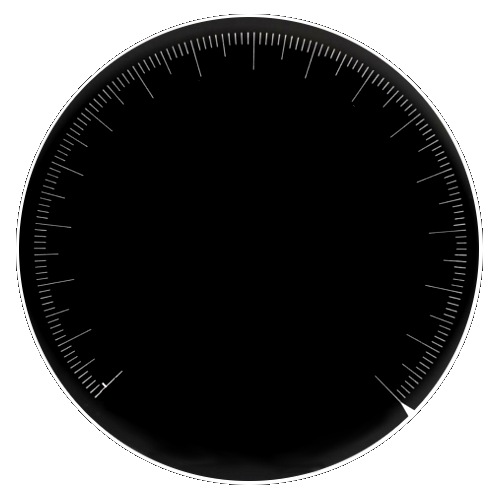
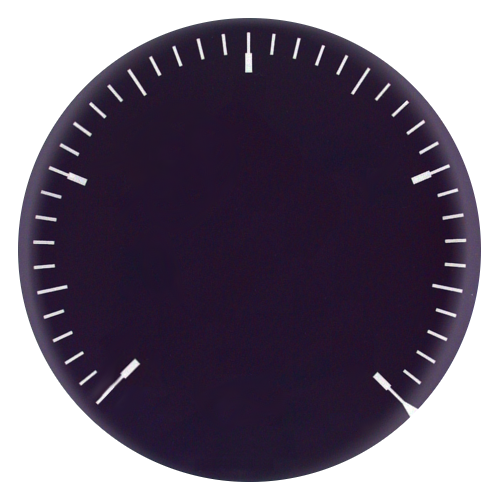
Added matching styles to digital gauge class. Fixed date alignment. Changed font color for certain styles

diff --git a/src/GaugeClass.py b/src/GaugeClass.py
@@ -27,9 +27,11 @@ class Gauge(Widget):
         self.MinValue= 0
         self.MaxValue= 80
         self.Units= 'DEF'
+        
 
         #BACKGROUND       
-        self.gauge = Image(source='Images/Guages/GuageHead5.png', size=(400,400))
+        self.gauge = Image(source='Images/Guages/GuageHead1.png', size=(400,400))
+        self.style = 1
         
         #GAUGE DIAL
         self.dialscat = Scatter(do_translation=False)
@@ -50,6 +52,8 @@ class Gauge(Widget):
         self.L8 =Label(text='70', font_size='20sp', pos=(280,125), color=(0, 0, 0, 1))
         self.L9 =Label(text='80', font_size='20sp', pos=(240,65), color=(0, 0, 0, 1))
         
+        self.UnitScaleLabels = [self.L1,self.L2,self.L3,self.L4,self.L5,self.L6,self.L7,self.L8,self.L9]
+        
         #SETTINGS MENU BUTTON
         self.settings= Button(text='Modify', pos=(155,40), size=(80,30), color=(51,102,255,1))
         self.settings.bind(on_release=self.menu)
@@ -68,6 +72,10 @@ class Gauge(Widget):
         self.add_widget(self.MTitle)
         self.add_widget(self.MUnits)
         
+        #ADD UNIT SCALE LABELS
+        for l in self.UnitScaleLabels:
+            self.add_widget(l)
+        """
         self.add_widget(self.L1)
         self.add_widget(self.L2)
         self.add_widget(self.L3)
@@ -77,6 +85,7 @@ class Gauge(Widget):
         self.add_widget(self.L7)
         self.add_widget(self.L8)
         self.add_widget(self.L9)
+        """
         
     def setParents(self, P, S):
         self.Parent=P
@@ -91,7 +100,7 @@ class Gauge(Widget):
         """
         if(self.settings_open==False):
             menu = BoxLayout(
-                    size_hint=(None, None),
+                    size_hint=(None, .5),
                     orientation='vertical')
             
             B1= Button(text='Style 1')
@@ -100,10 +109,23 @@ class Gauge(Widget):
             B2.bind(on_release=self.style_2)
             B3= Button(text='Style 3')
             B3.bind(on_release=self.style_3)
+            B4= Button(text='Style 4')
+            B4.bind(on_release=self.style_4)
+            B5= Button(text='Style 5')
+            B5.bind(on_release=self.style_5)
+            B6= Button(text='Style 6')
+            B6.bind(on_release=self.style_6)
+            B7= Button(text='Style 7')
+            B7.bind(on_release=self.style_7)
             
             menu.add_widget(B1)
             menu.add_widget(B2)
             menu.add_widget(B3)
+            menu.add_widget(B4)
+            menu.add_widget(B5)
+            menu.add_widget(B6)
+            menu.add_widget(B7)
+            
             
             close = Button(text='close')
             close.bind(on_release=partial(self.close_menu, menu))
@@ -123,48 +145,87 @@ class Gauge(Widget):
         self.gauge.source = imagesrc
         
     def style_1(self, *largs):
-        self.setBackground('Images/Guages/GuageHead5.png')
-        self.L1.color=(0,0,0,1)
-        self.L2.color=(0,0,0,1)
-        self.L3.color=(0,0,0,1)
-        self.L4.color=(0,0,0,1)
-        self.L5.color=(0,0,0,1)
-        self.L6.color=(0,0,0,1)
-        self.L7.color=(0,0,0,1)
-        self.L8.color=(0,0,0,1)
-        self.L9.color=(0,0,0,1)
+        #Theme Background Image
+        self.setBackground('Images/Guages/GuageHead1.png')
         
+        #Unit Measure Colors
+        for l in self.UnitScaleLabels:
+            l.color=(0,0,0,1)
+        
+        #String Identifiers
         self.MTitle.color=(0,0,0,1)
         self.MUnits.color=(0,0,0,1)
     
     def style_2(self, *largs):
-        self.setBackground('Images/Guages/GuageHead6.png')
-        self.L1.color=(255,255,255,1)
-        self.L2.color=(255,255,255,1)
-        self.L3.color=(255,255,255,1)
-        self.L4.color=(255,255,255,1)
-        self.L5.color=(255,255,255,1)
-        self.L6.color=(255,255,255,1)
-        self.L7.color=(255,255,255,1)
-        self.L8.color=(255,255,255,1)
-        self.L9.color=(255,255,255,1)
+        #Theme Background Image
+        self.setBackground('Images/Guages/GuageHead2.png')
         
+        #Unit Measure Colors
+        for l in self.UnitScaleLabels:
+            l.color=(255,255,255,1)
+        
+        #String Identifiers
         self.MTitle.color=(255,255,255,1)
         self.MUnits.color=(255,255,255,1)
         
         
     def style_3(self, *largs):
-        self.setBackground('Images/Guages/GuageHead2.png')
-        self.L1.color=(255,255,255,1)
-        self.L2.color=(255,255,255,1)
-        self.L3.color=(255,255,255,1)
-        self.L4.color=(255,255,255,1)
-        self.L5.color=(255,255,255,1)
-        self.L6.color=(255,255,255,1)
-        self.L7.color=(255,255,255,1)
-        self.L8.color=(255,255,255,1)
-        self.L9.color=(255,255,255,1)
+        #Theme Background Image
+        self.setBackground('Images/Guages/GuageHead3.png')
         
+        #Unit Measure Colors
+        for l in self.UnitScaleLabels:
+            l.color=(255,255,255,1)
+        
+        #String Identifiers
+        self.MTitle.color=(255,255,255,1)
+        self.MUnits.color=(255,255,255,1)
+        
+    def style_4(self, *largs):
+        #Theme Background Image
+        self.setBackground('Images/Guages/GuageHead4.png')
+        
+        #Unit Measure Colors
+        for l in self.UnitScaleLabels:
+            l.color=(0,0,0,1)
+        
+        #String Identifiers
+        self.MTitle.color=(0,0,0,1)
+        self.MUnits.color=(0,0,0,1)
+    
+    def style_5(self, *largs):
+        #Theme Background Image
+        self.setBackground('Images/Guages/GuageHead5.png')
+        
+        #Unit Measure Colors
+        for l in self.UnitScaleLabels:
+            l.color=(255,255,255,1)
+        
+        #String Identifiers
+        self.MTitle.color=(255,255,255,1)
+        self.MUnits.color=(255,255,255,1)
+        
+    def style_6(self, *largs):
+        #Theme Background Image
+        self.setBackground('Images/Guages/GuageHead6.png')
+        
+        #Unit Measure Colors
+        for l in self.UnitScaleLabels:
+            l.color=(0,0,0,1)
+        
+        #String Identifiers
+        self.MTitle.color=(0,0,0,1)
+        self.MUnits.color=(0,0,0,1)
+    
+    def style_7(self, *largs):
+        #Theme Background Image
+        self.setBackground('Images/Guages/GuageHead7.png')
+        
+        #Unit Measure Colors
+        for l in self.UnitScaleLabels:
+            l.color=(255,255,255,1)
+        
+        #String Identifiers
         self.MTitle.color=(255,255,255,1)
         self.MUnits.color=(255,255,255,1)
         
@@ -180,16 +241,11 @@ class Gauge(Widget):
         self.MaxValue=Max
         diff = Max-Min
         inc = diff/8
-        self.L1.text=str(Min)
-        self.L2.text=str(Min+(1*inc))
-        self.L3.text=str(Min+(2*inc))
-        self.L4.text=str(Min+(3*inc))
-        self.L5.text=str(Min+(4*inc))
-        self.L6.text=str(Min+(5*inc))
-        self.L7.text=str(Min+(6*inc))
-        self.L8.text=str(Min+(7*inc))
-        self.L9.text=str(Min+(8*inc))
         
+        #Set unit scale text values
+        for n in range(9):
+            self.UnitScaleLabels[n].text=str(Min+(n*inc))
+
 
     def setMPH(self, mph):
         angle = 360-(1.3655*mph)

diff --git a/src/GaugeClassDigital.py b/src/GaugeClassDigital.py
@@ -86,7 +86,7 @@ class GaugeDigital(Widget):
         """
         if(self.settings_open==False):
             menu = BoxLayout(
-                    size_hint=(None, None),
+                    size_hint=(None, .5),
                     orientation='vertical')
             
             B1= Button(text='Style 1')
@@ -95,10 +95,23 @@ class GaugeDigital(Widget):
             B2.bind(on_release=self.style_2)
             B3= Button(text='Style 3')
             B3.bind(on_release=self.style_3)
+            B4= Button(text='Style 4')
+            B4.bind(on_release=self.style_4)
+            B5= Button(text='Style 5')
+            B5.bind(on_release=self.style_5)
+            B6= Button(text='Style 6')
+            B6.bind(on_release=self.style_6)
+            B7= Button(text='Style 7')
+            B7.bind(on_release=self.style_7)
             
             menu.add_widget(B1)
             menu.add_widget(B2)
             menu.add_widget(B3)
+            menu.add_widget(B4)
+            menu.add_widget(B5)
+            menu.add_widget(B6)
+            menu.add_widget(B7)
+            
             
             close = Button(text='close')
             close.bind(on_release=partial(self.close_menu, menu))
@@ -131,6 +144,34 @@ class GaugeDigital(Widget):
         
     def style_3(self, *largs):
         self.setBackground('Images/Guages/GuageSquare3.png')
+        
+        self.MTitle.color=(255,255,255,1)
+        self.MUnits.color=(255,255,255,1)
+        self.VALUE.color=(255,255,255,1)
+        
+    def style_4(self, *largs):
+        self.setBackground('Images/Guages/GuageSquare4.png')
+        
+        self.MTitle.color=(0,0,0,1)
+        self.MUnits.color=(0,0,0,1)
+        self.VALUE.color=(0,0,0,1)
+        
+    def style_5(self, *largs):
+        self.setBackground('Images/Guages/GuageSquare5.png')
+        
+        self.MTitle.color=(255,255,255,1)
+        self.MUnits.color=(255,255,255,1)
+        self.VALUE.color=(255,255,255,1)
+        
+    def style_6(self, *largs):
+        self.setBackground('Images/Guages/GuageSquare6.png')
+        
+        self.MTitle.color=(0,0,0,1)
+        self.MUnits.color=(0,0,0,1)
+        self.VALUE.color=(0,0,0,1)
+    
+    def style_7(self, *largs):
+        self.setBackground('Images/Guages/GuageSquare7.png')
         
         self.MTitle.color=(255,255,255,1)
         self.MUnits.color=(255,255,255,1)

diff --git a/src/DigiDash.py b/src/DigiDash.py
@@ -8,7 +8,7 @@ from kivy.uix.scatterlayout import ScatterLayout
 from kivy.animation import Animation
 from kivy.uix.floatlayout import FloatLayout
 from kivy.clock import Clock
-from GaugeClass import Gauge  Gauge.setParents(g1,self,g1s)
+from GaugeClass import Gauge
 from GaugeClassDigital import GaugeDigital
 from Settings import Settings
 from AddGauge import AddGauge
@@ -29,6 +29,7 @@ class DigiDashApp(App):
         
         ActiveGauges=[]
         
+        #Initialize all Gauges from INI config file
         for g in GaugeList:
             gtype = Config.get(g,'type')
             gstyle = int(Config.get(g,'style'))
@@ -69,36 +70,6 @@ class DigiDashApp(App):
         #Create initial background, replace eventually with settings load from ini file
         self.bg = Image(source='Images/Metal2.jpg', pos=(0,0), size=(1500,840))
         
-        """
-        #Create all initial guages, switch eventually to load from settings ini file
-        g1= Gauge()
-        g1s = Scatter(scale=0.5, size_hint=(None,None), size=(400,400), pos=(30,80))
-        g1s.add_widget(g1)
-        Gauge.setParents(g1,self,g1s)
-        #Gauge.changeBGTest(g1)
-        Gauge.setGuageParameters(g1, 'Speedometer', 0, 80, 'MPH')
-        #Gauge.setBackground(g1,'Images/Guages/GuageHead3.png')
-        
-        g2= Gauge()
-        g2s = Scatter(scale=0.5, size_hint=(None,None), size=(400,400), pos=(220,80))
-        g2s.add_widget(g2)
-        Gauge.setParents(g2,self,g2s)
-        Gauge.setGuageParameters(g2, 'Fuel Pressure', 0, 80, 'PSI')
-        g2.setMPH(100)
-
-        g3= Gauge()
-        g3s = Scatter(scale=0.5, size_hint=(None,None), size=(400,400), pos=(420,80))
-        g3s.add_widget(g3)
-        Gauge.setParents(g3,self,g3s)
-        Gauge.setGuageParameters(g3, 'Boost Pressure', 0, 80, 'PSI')
-        
-        g4= GaugeDigital()
-        g4s= Scatter(scale=0.5, size_hint=(None,None), size=(400,400), pos=(620,80))
-        GaugeDigital.setParents(g4,self,g4s)
-        GaugeDigital.setGuageParameters(g4, 'Engine Load', 0, 80, 'Percent')
-        g4s.add_widget(g4)
-        
-        """
         
         #Create header
         head = Header()

diff --git a/src/Footer.py b/src/Footer.py
@@ -17,7 +17,7 @@ class Footer(Widget):
         self.bg = Image(source='Images/StatusBar.png', size=(800,80))
         self.title = Label(text='DigiDash', font_size='60sp', pos=(380,-10))
         #print(self.title.size)
-        self.date = Label(text='Friday, September 16th 2016', font_size='18sp', pos=(75,-10))
+        self.date = Label(text='Friday, September 16th 2016', font_size='18sp', pos=(85,-10))
         #print(self.date.size)
         self.time = Label(text='12:00:00 EST', font_size='24sp', pos=(650,-10))
         #print(self.time.size)
